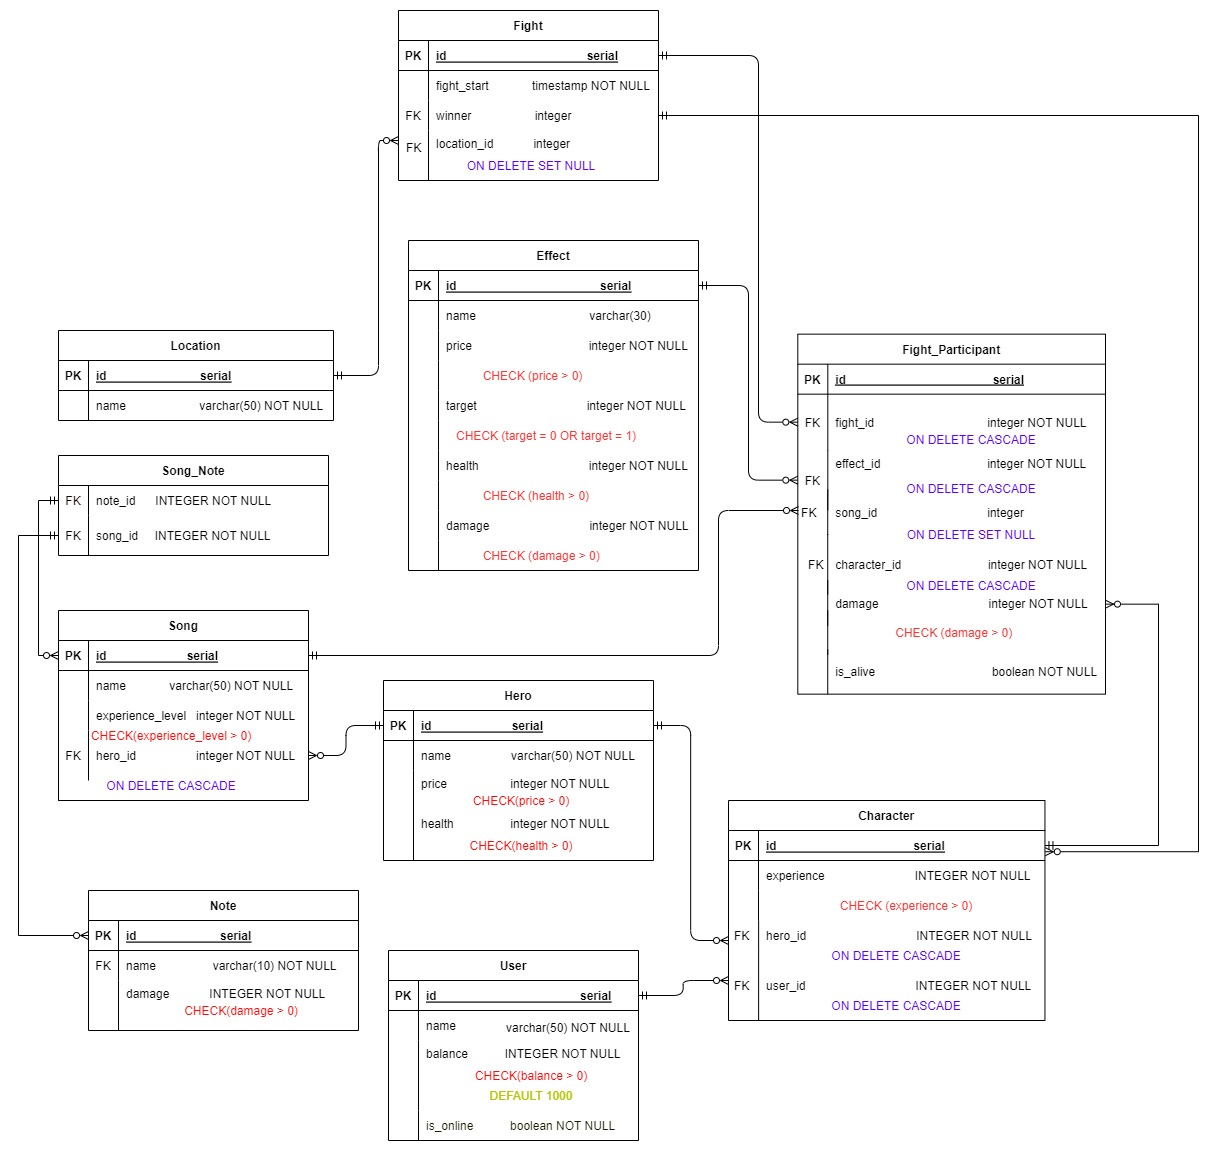
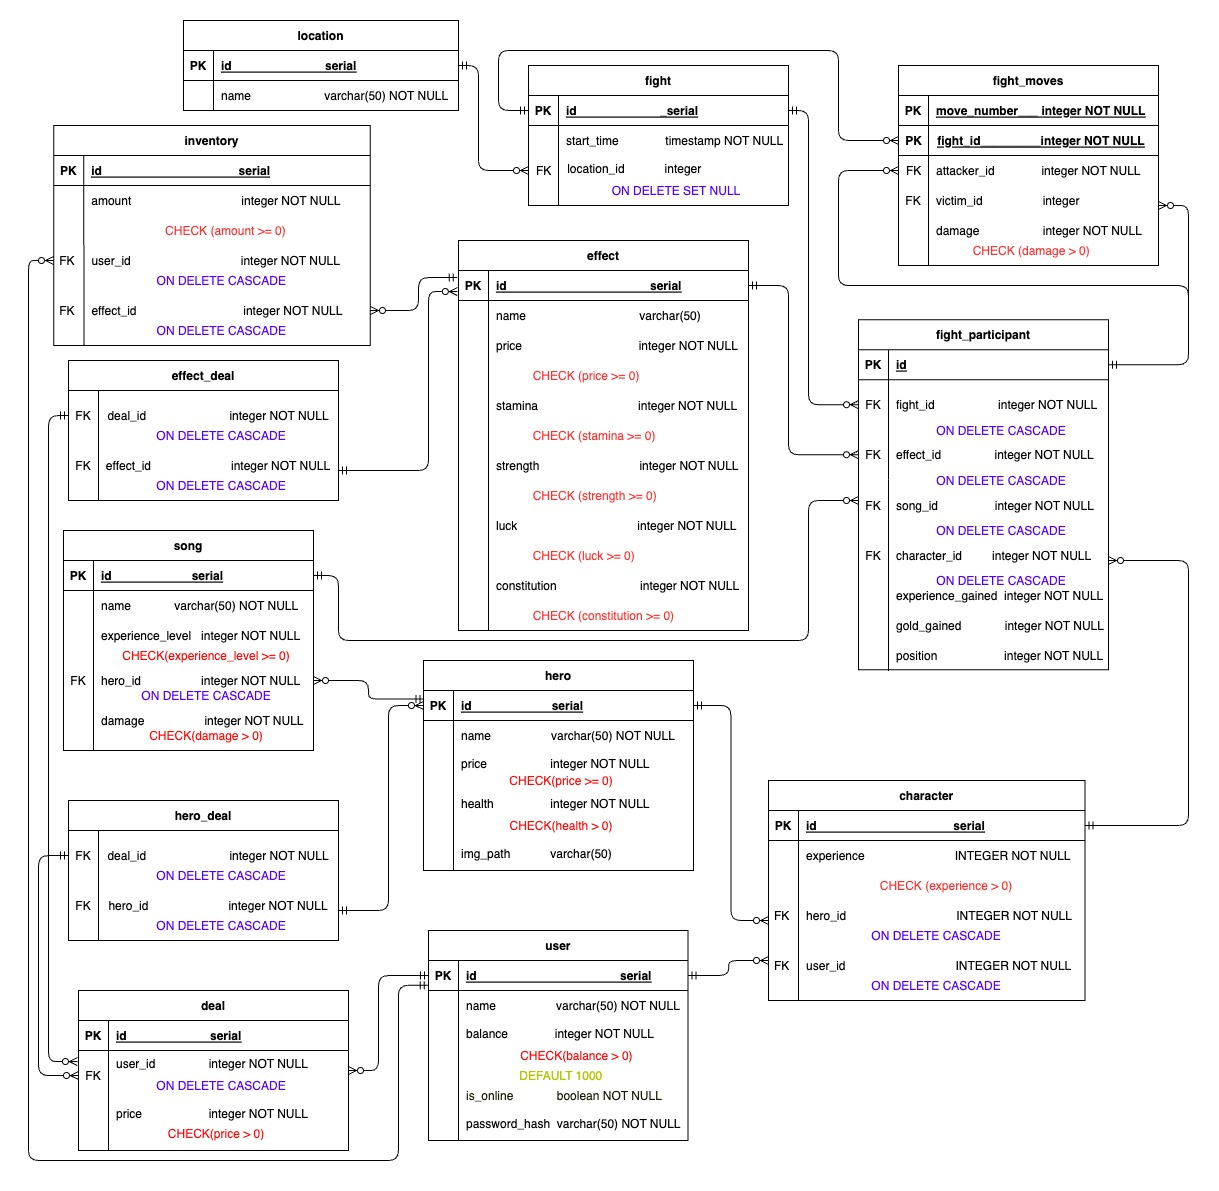
Change datalogical and er diagrams

Changed region(s): [[0.0312, 0.0, 0.936, 0.9922], [0.6864, 0.062, 0.9672, 0.2481], [0.6864, 0.5581, 0.7176, 0.5891]]

diff --git a/content.tex b/content.tex
@@ -38,25 +38,18 @@
 
 Workflow начала боя:
 \begin{enumerate}
-    \item Один игрок открывает список пользователей в онлайне
-    \item Приглашает второго на бой
-    \item Второй принимает вызов
-    \item Игроки выбирают локацию(При выборе разных локаций выбирается случайная из предложенных)
-    \item Игрок выбирает персонажа, песню и эффект который используется в бою
-    \item Затем он кликает на кнопку готов
-    \item Бой начинается когда оба готовы
-    
-    \item Создать сущность битвы и участников и определить победителя
-    
-    \item Наградим победителя
-    
-    \item Игрок выходит из битвы, тем самым завершая её(собирается два голоса, выходит после второго)
-
-    Выставляем поле победитель и тригеры подхватят и перераспределят золото
-
-    Тригер он инсерт на файт партисипант чтобы на добавление в бд 
+    \item Есть большая кнопка начать битву
+    \item Пользователь нажимает на неё, открывается окошко выбора героя, эффектов, песни, и список игроков онлайн, напротив которых есть кнопка inivte
+    \item Хост приглашает других игроков
+    \item У них то же самое окно выбора, они выбирают то что хотят и нажимают кнопку готов
+    \item Когда все готовы хост нажимает кнопку начать бой
+    \item Данные о битве идут на сервер
+    \item Создаются сущности Fight\_Participant для каждого игрока
+    \item Проигрывается бой по раундам и результат записывается в таблицу Fight
+    \item Результат отправляется обратно всем участникам битвы
+    \item Проигрываем простенькую анимацию
+    \item Выводим имя побелителя и сколько он заработал как золота, так и опыта, эта информация также содержится в Fight\_Participant
 \end{enumerate}
-
 
 
 \subsection*{Сущности}
@@ -97,7 +90,7 @@ Workflow начала боя:
 
 \begin{figure}[H]
 	\begin{center}
-		\includegraphics[scale=0.48]{images/ER.jpg}
+		\includegraphics[scale=0.46]{images/ER.jpg}
 		\caption{ER-диаграмма предметной области}
 	\end{center}
 \end{figure}
@@ -118,7 +111,11 @@ Workflow начала боя:
 
 \section*{Этап 3}
 
+\addcontentsline{toc}{section}{Этап 3}
+
 \subsection*{Сделать скрипты для создания и удаления базы данных}
+
+\addcontentsline{toc}{subsection}{Сделать скрипты для создания и удаления базы данных}
 
 \begin{enumerate}
     \item buy\_hero(user\_id, hero\_id, sum) 
@@ -152,6 +149,9 @@ Workflow начала боя:
 \subsection*{Добавить в базу данных триггеры для обеспечения комплексных ограничений
 целостности}
 
+\addcontentsline{toc}{subsection}{Добавить в базу данных триггеры для обеспечения комплексных ограничений
+целостности}
+
 \begin{enumerate}
     \item On update fight 
     - Берем бабки и опыт с програвшего, берем с победителя и по бизнес логике перераспределяем через 2 join'a на user'a
@@ -161,6 +161,5 @@ Workflow начала боя:
 
     \item On update fight\_participant
     - Сверяет damage и определяет победителя если он >= со здоровьем, то он умер
-
     
-\end{enumerate}
+\end{enumerate}ww
